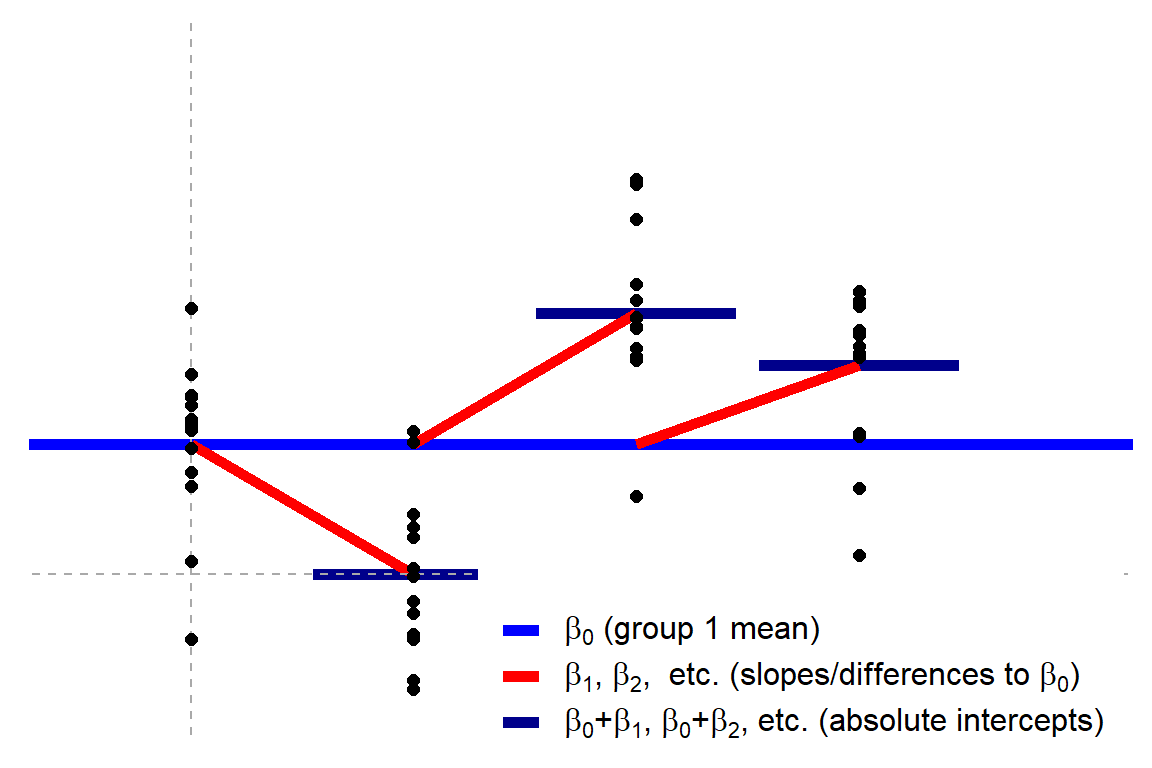
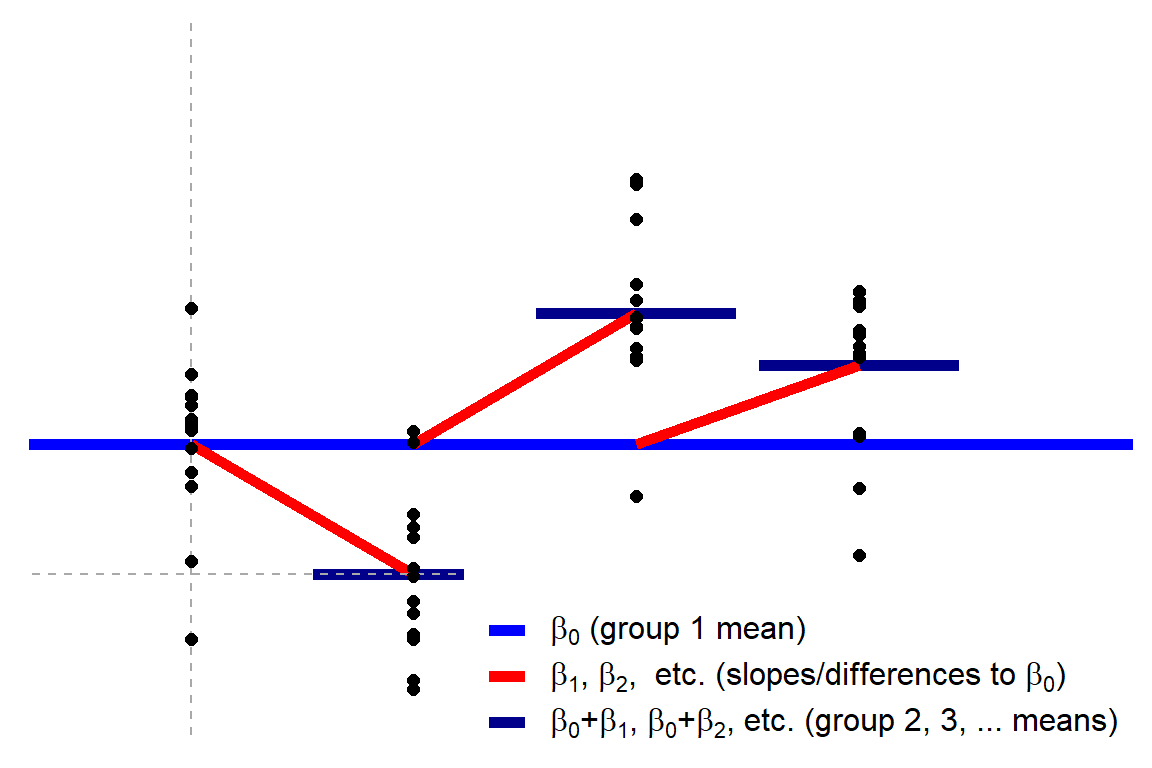
Updates to AN(C)OVAs and Kruskal-Wallis. Thanks to Alan Haynes (#7) and @joehaber2 (Twitter) for inputs!

Changed region(s): [[0.4062, 0.7812, 0.9688, 0.9688]]

diff --git a/index.html b/index.html
@@ -1077,7 +1077,7 @@ P_anova1 = ggplot(D_anova1, aes(x=x, y=y)) +
     labels=c(
       bquote(beta[0]*&quot; (group 1 mean)&quot;), 
       bquote(beta[1]*&quot;, &quot;*beta[2]*&quot;,  etc. (slopes/differences to &quot;*beta[0]*&quot;)&quot;),
-      bquote(beta[0]*&quot;+&quot;*beta[1]*&quot;, &quot;*beta[0]*&quot;+&quot;*beta[2]*&quot;, etc. (absolute intercepts)&quot;)
+      bquote(beta[0]*&quot;+&quot;*beta[1]*&quot;, &quot;*beta[0]*&quot;+&quot;*beta[2]*&quot;, etc. (group 2, 3, ... means)&quot;)
     )
   )
   
@@ -1101,22 +1101,22 @@ D = data.frame(
    
    # Explicitly add indicator/dummy variables
    # Could also be done using model.matrix(~D$group)
-   group_a = rep(c(1, 0, 0), each=N),
+   #group_a = rep(c(1, 0, 0), each=N),  # This is the intercept. No need to code
    group_b = rep(c(0, 1, 0), each=N),
    group_c = rep(c(0, 0, 1), each=N))  # N of each level</code></pre>
 <div id="htmlwidget-70a39cca644e058980b8" style="width:100%;height:auto;" class="datatables html-widget"></div>
-<script type="application/json" data-for="htmlwidget-70a39cca644e058980b8">{"x":{"filter":"none","data":[[1.2054,-0.3238,-2.2574,-0.3088,0.8638,0.9145,1.2604,-0.4439,-0.6537,-0.6647,0.3751,1.0547,-0.4506,-0.2959,-0.0689,0.67,-1.1847,1.4327,0.4198,-1.5439,1.3094,2.488,0.7133,0.361,0.902,2.3742,-0.0172,0.2945,2.2848,-0.1022,0.2534,1.7632,0.7837,1.8609,-0.4687,-0.1086,0.6003,2.4223,2.2305,0.0551,0.8815,0.5242,0.8554,0.3194,0.1591,0.0174,0.0715,2.0275,1.7328,-0.7752,0.6351,0.0606,0.0999,1.2877,0.4873,-0.7995,-1.9402,2.3574,0.7758,1.2222],["a","a","a","a","a","a","a","a","a","a","a","a","a","a","a","a","a","a","a","a","b","b","b","b","b","b","b","b","b","b","b","b","b","b","b","b","b","b","b","b","c","c","c","c","c","c","c","c","c","c","c","c","c","c","c","c","c","c","c","c"],[1,1,1,1,1,1,1,1,1,1,1,1,1,1,1,1,1,1,1,1,0,0,0,0,0,0,0,0,0,0,0,0,0,0,0,0,0,0,0,0,0,0,0,0,0,0,0,0,0,0,0,0,0,0,0,0,0,0,0,0],[0,0,0,0,0,0,0,0,0,0,0,0,0,0,0,0,0,0,0,0,1,1,1,1,1,1,1,1,1,1,1,1,1,1,1,1,1,1,1,1,0,0,0,0,0,0,0,0,0,0,0,0,0,0,0,0,0,0,0,0],[0,0,0,0,0,0,0,0,0,0,0,0,0,0,0,0,0,0,0,0,0,0,0,0,0,0,0,0,0,0,0,0,0,0,0,0,0,0,0,0,1,1,1,1,1,1,1,1,1,1,1,1,1,1,1,1,1,1,1,1]],"container":"<table class=\"display\">\n  <thead>\n    <tr>\n      <th>value<\/th>\n      <th>group<\/th>\n      <th>group_a<\/th>\n      <th>group_b<\/th>\n      <th>group_c<\/th>\n    <\/tr>\n  <\/thead>\n<\/table>","options":{"searching":false,"lengthChange":false,"ordering":false,"autoWidth":true,"bPaginate":true,"bInfo":true,"paging":true,"columnDefs":[{"className":"dt-right","targets":[0,2,3,4]}],"order":[],"orderClasses":false}},"evals":[],"jsHooks":[]}</script>
-<p>See? Exactly one parameter predicts a <code>value</code> in a given row while the others are not included in the modeling of that <code>value</code>.</p>
+<script type="application/json" data-for="htmlwidget-70a39cca644e058980b8">{"x":{"filter":"none","data":[[1.2054,-0.3238,-2.2574,-0.3088,0.8638,0.9145,1.2604,-0.4439,-0.6537,-0.6647,0.3751,1.0547,-0.4506,-0.2959,-0.0689,0.67,-1.1847,1.4327,0.4198,-1.5439,1.3094,2.488,0.7133,0.361,0.902,2.3742,-0.0172,0.2945,2.2848,-0.1022,0.2534,1.7632,0.7837,1.8609,-0.4687,-0.1086,0.6003,2.4223,2.2305,0.0551,0.8815,0.5242,0.8554,0.3194,0.1591,0.0174,0.0715,2.0275,1.7328,-0.7752,0.6351,0.0606,0.0999,1.2877,0.4873,-0.7995,-1.9402,2.3574,0.7758,1.2222],["a","a","a","a","a","a","a","a","a","a","a","a","a","a","a","a","a","a","a","a","b","b","b","b","b","b","b","b","b","b","b","b","b","b","b","b","b","b","b","b","c","c","c","c","c","c","c","c","c","c","c","c","c","c","c","c","c","c","c","c"],[0,0,0,0,0,0,0,0,0,0,0,0,0,0,0,0,0,0,0,0,1,1,1,1,1,1,1,1,1,1,1,1,1,1,1,1,1,1,1,1,0,0,0,0,0,0,0,0,0,0,0,0,0,0,0,0,0,0,0,0],[0,0,0,0,0,0,0,0,0,0,0,0,0,0,0,0,0,0,0,0,0,0,0,0,0,0,0,0,0,0,0,0,0,0,0,0,0,0,0,0,1,1,1,1,1,1,1,1,1,1,1,1,1,1,1,1,1,1,1,1]],"container":"<table class=\"display\">\n  <thead>\n    <tr>\n      <th>value<\/th>\n      <th>group<\/th>\n      <th>group_b<\/th>\n      <th>group_c<\/th>\n    <\/tr>\n  <\/thead>\n<\/table>","options":{"searching":false,"lengthChange":false,"ordering":false,"autoWidth":true,"bPaginate":true,"bInfo":true,"paging":true,"columnDefs":[{"className":"dt-right","targets":[0,2,3]}],"order":[],"orderClasses":false}},"evals":[],"jsHooks":[]}</script>
+<p>With group a’s intercept omni-present, see how exactly one other parameter is added to predict <code>value</code> for group b and c in a given row. Thus data points in group b never affect the estimates in group c.</p>
 </div>
 <div id="r-code-one-way-anova" class="section level3">
 <h3><span class="header-section-number">6.1.3</span> R code: one-way ANOVA</h3>
-<p>OK, let’s see the identity between the built-in <strong>ANOVA</strong> (<code>car::Anova</code>) and the dummy-coded in-your-face linear model in <code>lm</code>. Actually, <code>car::Anova</code> and <code>aov</code> are just wrappers around <code>lm</code> so the identity comes as no surprise. The latter returns parameter estimates as well (bonus!), but we’ll just look at the overall model statistics for now. Note that I do not use the <code>aov</code> function because it computes type-I sum of squares. There is a BIG polarized debate about whether to use type-II (as <code>car::Anova</code> does by default) or type-III sum of squares, but let’s skip that for now.</p>
+<p>OK, let’s see the identity between a dedicated <strong>ANOVA</strong> function (<code>car::Anova</code>) and the dummy-coded in-your-face linear model in <code>lm</code>.</p>
 <pre class="r"><code># Compare built-in and linear model
 a = car::Anova(aov(value ~ group, D))  # Built-in ANOVA
-b = lm(value ~ 1 + group_a + group_b + group_c, data=D)  # As in-your-face linear model</code></pre>
+b = lm(value ~ 1 + group_b + group_c, data=D)  # As in-your-face linear model</code></pre>
 <p>Results:</p>
 <div id="htmlwidget-1ab0d000b26193e8df53" style="width:100%;height:auto;" class="datatables html-widget"></div>
-<script type="application/json" data-for="htmlwidget-1ab0d000b26193e8df53">{"x":{"filter":"none","data":[["Anova","lm"],[5,5],[0.01,0.01],[2,3],[57,57]],"container":"<table class=\"display\">\n  <thead>\n    <tr>\n      <th>model<\/th>\n      <th>F<\/th>\n      <th>p.value<\/th>\n      <th>df<\/th>\n      <th>df.residual<\/th>\n    <\/tr>\n  <\/thead>\n<\/table>","options":{"searching":false,"lengthChange":false,"ordering":false,"autoWidth":true,"bPaginate":false,"bInfo":false,"paging":false,"columnDefs":[{"className":"dt-right","targets":[1,2,3,4]}],"order":[],"orderClasses":false}},"evals":[],"jsHooks":[]}</script>
+<script type="application/json" data-for="htmlwidget-1ab0d000b26193e8df53">{"x":{"filter":"none","data":[["Anova","lm"],[2,3],[57,57],[5,5],[0.00998,0.00998]],"container":"<table class=\"display\">\n  <thead>\n    <tr>\n      <th>model<\/th>\n      <th>df<\/th>\n      <th>df.residual<\/th>\n      <th>F<\/th>\n      <th>p.value<\/th>\n    <\/tr>\n  <\/thead>\n<\/table>","options":{"searching":false,"lengthChange":false,"ordering":false,"autoWidth":true,"bPaginate":false,"bInfo":false,"paging":false,"columnDefs":[{"className":"dt-right","targets":[1,2,3,4]}],"order":[],"orderClasses":false}},"evals":[],"jsHooks":[]}</script>
 <div class="fold o">
 <pre><code>## Anova Table (Type II tests)
 ## 
@@ -1128,18 +1128,17 @@ b = lm(value ~ 1 + group_a + group_b + group_c, data=D)  # As in-your-face linea
 ## Signif. codes:  0 &#39;***&#39; 0.001 &#39;**&#39; 0.01 &#39;*&#39; 0.05 &#39;.&#39; 0.1 &#39; &#39; 1
 ## 
 ## Call:
-## lm(formula = value ~ 1 + group_a + group_b + group_c, data = D)
+## lm(formula = value ~ 1 + group_b + group_c, data = D)
 ## 
 ## Residuals:
 ##     Min      1Q  Median      3Q     Max 
 ## -2.4402 -0.6427 -0.1393  0.8060  1.8574 
 ## 
-## Coefficients: (1 not defined because of singularities)
-##             Estimate Std. Error t value Pr(&gt;|t|)  
-## (Intercept)   0.5000     0.2236   2.236   0.0293 *
-## group_a      -0.5000     0.3162  -1.581   0.1194  
-## group_b       0.5000     0.3162   1.581   0.1194  
-## group_c           NA         NA      NA       NA  
+## Coefficients:
+##              Estimate Std. Error t value Pr(&gt;|t|)   
+## (Intercept) 1.147e-16  2.236e-01   0.000  1.00000   
+## group_b     1.000e+00  3.162e-01   3.162  0.00251 **
+## group_c     5.000e-01  3.162e-01   1.581  0.11938   
 ## ---
 ## Signif. codes:  0 &#39;***&#39; 0.001 &#39;**&#39; 0.01 &#39;*&#39; 0.05 &#39;.&#39; 0.1 &#39; &#39; 1
 ## 
@@ -1147,15 +1146,18 @@ b = lm(value ~ 1 + group_a + group_b + group_c, data=D)  # As in-your-face linea
 ## Multiple R-squared:  0.1493, Adjusted R-squared:  0.1194 
 ## F-statistic:     5 on 2 and 57 DF,  p-value: 0.009984</code></pre>
 </div>
+<p>Only degrees of freedom (df) differ. Actually, <code>car::Anova</code> and <code>aov</code> are just wrappers around <code>lm</code> so the identity comes as no surprise. It only shows that the dummy-coded formula, which had a direct interpretation as a linear model, is the one that underlies the shorthand notation syntax <code>y ~ factor</code>. Indeed, the only real reason to use aov and <code>car::Anova</code> rather than <code>lm</code> is to get a nicely formatted ANOVA table.</p>
+<p>The default output of <code>lm</code> returns parameter estimates as well (bonus!), which you can see if you unfold the R output above. However, because they ARE the ANOVA model, you can also get them out into the open by calling <code>coefficients(aov(...))</code></p>
+<p>Note that I do not use the <code>aov</code> function because it computes type-I sum of squares, which is widely discouraged. There is a BIG polarized debate about whether to use type-II (as <code>car::Anova</code> does by default) or type-III sum of squares (set <code>car::Anova(..., type=3)</code>), but let’s skip that for now.</p>
 </div>
 <div id="r-code-kruskal-wallis" class="section level3">
 <h3><span class="header-section-number">6.1.4</span> R code: Kruskal-Wallis</h3>
 <pre class="r"><code>a = kruskal.test(value ~ group, D)  # Built-in
-b = lm(rank(value) ~ 1 + group_a + group_b + group_c, D)  # As linear model
-c = car::Anova(aov(rank(value) ~ group, D))  # Of course the same using the built-in ANOVA, which is just a wrapper around lm</code></pre>
+b = lm(rank(value) ~ 1 + group_b + group_c, D)  # As linear model
+c = car::Anova(aov(rank(value) ~ group, D))  # The same, using a dedicated ANOVA function. It just wraps lm.</code></pre>
 <p>Results:</p>
 <div id="htmlwidget-17f92ca3804c39b73546" style="width:100%;height:auto;" class="datatables html-widget"></div>
-<script type="application/json" data-for="htmlwidget-17f92ca3804c39b73546">{"x":{"filter":"none","data":[["kruskal.test","lm"],[0.0355,0.0326]],"container":"<table class=\"display\">\n  <thead>\n    <tr>\n      <th>model<\/th>\n      <th>p.value<\/th>\n    <\/tr>\n  <\/thead>\n<\/table>","options":{"searching":false,"lengthChange":false,"ordering":false,"autoWidth":true,"bPaginate":false,"bInfo":false,"paging":false,"columnDefs":[{"className":"dt-right","targets":1}],"order":[],"orderClasses":false}},"evals":[],"jsHooks":[]}</script>
+<script type="application/json" data-for="htmlwidget-17f92ca3804c39b73546">{"x":{"filter":"none","data":[["kruskal.test","lm"],[2,3],[0.0355,0.0326]],"container":"<table class=\"display\">\n  <thead>\n    <tr>\n      <th>model<\/th>\n      <th>df<\/th>\n      <th>p.value<\/th>\n    <\/tr>\n  <\/thead>\n<\/table>","options":{"searching":false,"lengthChange":false,"ordering":false,"autoWidth":true,"bPaginate":false,"bInfo":false,"paging":false,"columnDefs":[{"className":"dt-right","targets":[1,2]}],"order":[],"orderClasses":false}},"evals":[],"jsHooks":[]}</script>
 <div class="fold o">
 <pre><code>## 
 ##  Kruskal-Wallis rank sum test
@@ -1165,18 +1167,17 @@ c = car::Anova(aov(rank(value) ~ group, D))  # Of course the same using the buil
 ## 
 ## 
 ## Call:
-## lm(formula = rank(value) ~ 1 + group_a + group_b + group_c, data = D)
+## lm(formula = rank(value) ~ 1 + group_b + group_c, data = D)
 ## 
 ## Residuals:
 ##     Min      1Q  Median      3Q     Max 
 ## -28.950 -12.213  -0.675  15.912  26.850 
 ## 
-## Coefficients: (1 not defined because of singularities)
+## Coefficients:
 ##             Estimate Std. Error t value Pr(&gt;|t|)    
-## (Intercept)   30.950      3.741   8.272 2.43e-11 ***
-## group_a       -7.800      5.291  -1.474    0.146    
-## group_b        6.450      5.291   1.219    0.228    
-## group_c           NA         NA      NA       NA    
+## (Intercept)   23.150      3.741   6.187 7.08e-08 ***
+## group_b       14.250      5.291   2.693  0.00928 ** 
+## group_c        7.800      5.291   1.474  0.14595    
 ## ---
 ## Signif. codes:  0 &#39;***&#39; 0.001 &#39;**&#39; 0.01 &#39;*&#39; 0.05 &#39;.&#39; 0.1 &#39; &#39; 1
 ## 
@@ -1211,7 +1212,7 @@ D$mood = c(&#39;happy&#39;, &#39;sad&#39;)
 D$mood_happy = ifelse(D$mood == &#39;happy&#39;, 1, 0)  # 1 if mood==happy. 0 otherwise.
 D$mood_sad = ifelse(D$mood == &#39;sad&#39;, 1, 0)  # Same, but we won&#39;t be needing this</code></pre>
 <div id="htmlwidget-f1358fffeb3bd1d82ace" style="width:100%;height:auto;" class="datatables html-widget"></div>
-<script type="application/json" data-for="htmlwidget-f1358fffeb3bd1d82ace">{"x":{"filter":"none","data":[[1.2054,-0.3238,-2.2574,-0.3088,0.8638,0.9145,1.2604,-0.4439,-0.6537,-0.6647,0.3751,1.0547,-0.4506,-0.2959,-0.0689,0.67,-1.1847,1.4327,0.4198,-1.5439,1.3094,2.488,0.7133,0.361,0.902,2.3742,-0.0172,0.2945,2.2848,-0.1022,0.2534,1.7632,0.7837,1.8609,-0.4687,-0.1086,0.6003,2.4223,2.2305,0.0551,0.8815,0.5242,0.8554,0.3194,0.1591,0.0174,0.0715,2.0275,1.7328,-0.7752,0.6351,0.0606,0.0999,1.2877,0.4873,-0.7995,-1.9402,2.3574,0.7758,1.2222],["a","a","a","a","a","a","a","a","a","a","a","a","a","a","a","a","a","a","a","a","b","b","b","b","b","b","b","b","b","b","b","b","b","b","b","b","b","b","b","b","c","c","c","c","c","c","c","c","c","c","c","c","c","c","c","c","c","c","c","c"],[1,1,1,1,1,1,1,1,1,1,1,1,1,1,1,1,1,1,1,1,0,0,0,0,0,0,0,0,0,0,0,0,0,0,0,0,0,0,0,0,0,0,0,0,0,0,0,0,0,0,0,0,0,0,0,0,0,0,0,0],[0,0,0,0,0,0,0,0,0,0,0,0,0,0,0,0,0,0,0,0,1,1,1,1,1,1,1,1,1,1,1,1,1,1,1,1,1,1,1,1,0,0,0,0,0,0,0,0,0,0,0,0,0,0,0,0,0,0,0,0],[0,0,0,0,0,0,0,0,0,0,0,0,0,0,0,0,0,0,0,0,0,0,0,0,0,0,0,0,0,0,0,0,0,0,0,0,0,0,0,0,1,1,1,1,1,1,1,1,1,1,1,1,1,1,1,1,1,1,1,1],["happy","sad","happy","sad","happy","sad","happy","sad","happy","sad","happy","sad","happy","sad","happy","sad","happy","sad","happy","sad","happy","sad","happy","sad","happy","sad","happy","sad","happy","sad","happy","sad","happy","sad","happy","sad","happy","sad","happy","sad","happy","sad","happy","sad","happy","sad","happy","sad","happy","sad","happy","sad","happy","sad","happy","sad","happy","sad","happy","sad"],[1,0,1,0,1,0,1,0,1,0,1,0,1,0,1,0,1,0,1,0,1,0,1,0,1,0,1,0,1,0,1,0,1,0,1,0,1,0,1,0,1,0,1,0,1,0,1,0,1,0,1,0,1,0,1,0,1,0,1,0],[0,1,0,1,0,1,0,1,0,1,0,1,0,1,0,1,0,1,0,1,0,1,0,1,0,1,0,1,0,1,0,1,0,1,0,1,0,1,0,1,0,1,0,1,0,1,0,1,0,1,0,1,0,1,0,1,0,1,0,1]],"container":"<table class=\"display\">\n  <thead>\n    <tr>\n      <th>value<\/th>\n      <th>group<\/th>\n      <th>group_a<\/th>\n      <th>group_b<\/th>\n      <th>group_c<\/th>\n      <th>mood<\/th>\n      <th>mood_happy<\/th>\n      <th>mood_sad<\/th>\n    <\/tr>\n  <\/thead>\n<\/table>","options":{"searching":false,"lengthChange":false,"ordering":false,"autoWidth":true,"bPaginate":true,"bInfo":true,"paging":true,"columnDefs":[{"className":"dt-right","targets":[0,2,3,4,6,7]}],"order":[],"orderClasses":false}},"evals":[],"jsHooks":[]}</script>
+<script type="application/json" data-for="htmlwidget-f1358fffeb3bd1d82ace">{"x":{"filter":"none","data":[[1.2054,-0.3238,-2.2574,-0.3088,0.8638,0.9145,1.2604,-0.4439,-0.6537,-0.6647,0.3751,1.0547,-0.4506,-0.2959,-0.0689,0.67,-1.1847,1.4327,0.4198,-1.5439,1.3094,2.488,0.7133,0.361,0.902,2.3742,-0.0172,0.2945,2.2848,-0.1022,0.2534,1.7632,0.7837,1.8609,-0.4687,-0.1086,0.6003,2.4223,2.2305,0.0551,0.8815,0.5242,0.8554,0.3194,0.1591,0.0174,0.0715,2.0275,1.7328,-0.7752,0.6351,0.0606,0.0999,1.2877,0.4873,-0.7995,-1.9402,2.3574,0.7758,1.2222],["a","a","a","a","a","a","a","a","a","a","a","a","a","a","a","a","a","a","a","a","b","b","b","b","b","b","b","b","b","b","b","b","b","b","b","b","b","b","b","b","c","c","c","c","c","c","c","c","c","c","c","c","c","c","c","c","c","c","c","c"],[0,0,0,0,0,0,0,0,0,0,0,0,0,0,0,0,0,0,0,0,1,1,1,1,1,1,1,1,1,1,1,1,1,1,1,1,1,1,1,1,0,0,0,0,0,0,0,0,0,0,0,0,0,0,0,0,0,0,0,0],[0,0,0,0,0,0,0,0,0,0,0,0,0,0,0,0,0,0,0,0,0,0,0,0,0,0,0,0,0,0,0,0,0,0,0,0,0,0,0,0,1,1,1,1,1,1,1,1,1,1,1,1,1,1,1,1,1,1,1,1],["happy","sad","happy","sad","happy","sad","happy","sad","happy","sad","happy","sad","happy","sad","happy","sad","happy","sad","happy","sad","happy","sad","happy","sad","happy","sad","happy","sad","happy","sad","happy","sad","happy","sad","happy","sad","happy","sad","happy","sad","happy","sad","happy","sad","happy","sad","happy","sad","happy","sad","happy","sad","happy","sad","happy","sad","happy","sad","happy","sad"],[1,0,1,0,1,0,1,0,1,0,1,0,1,0,1,0,1,0,1,0,1,0,1,0,1,0,1,0,1,0,1,0,1,0,1,0,1,0,1,0,1,0,1,0,1,0,1,0,1,0,1,0,1,0,1,0,1,0,1,0],[0,1,0,1,0,1,0,1,0,1,0,1,0,1,0,1,0,1,0,1,0,1,0,1,0,1,0,1,0,1,0,1,0,1,0,1,0,1,0,1,0,1,0,1,0,1,0,1,0,1,0,1,0,1,0,1,0,1,0,1]],"container":"<table class=\"display\">\n  <thead>\n    <tr>\n      <th>value<\/th>\n      <th>group<\/th>\n      <th>group_b<\/th>\n      <th>group_c<\/th>\n      <th>mood<\/th>\n      <th>mood_happy<\/th>\n      <th>mood_sad<\/th>\n    <\/tr>\n  <\/thead>\n<\/table>","options":{"searching":false,"lengthChange":false,"ordering":false,"autoWidth":true,"bPaginate":true,"bInfo":true,"paging":true,"columnDefs":[{"className":"dt-right","targets":[0,2,3,5,6]}],"order":[],"orderClasses":false}},"evals":[],"jsHooks":[]}</script>
 <p><span class="math inline">\(\beta_0\)</span> is now the happy guys from group a!</p>
 <div class="fold s">
 <pre class="r"><code># Add intercept line
@@ -1229,14 +1230,14 @@ theme_axis(P_anova2, xlim=c(-0.5, 3.5)) + theme(axis.text.x = element_text())</c
 </div>
 <div id="r-code-two-way-anova" class="section level3">
 <h3><span class="header-section-number">6.2.2</span> R code: Two-way ANOVA</h3>
-<p>Now let’s turn to the actual modeling in R. We compare the built-in ANOVA function to the linear model using <code>lm</code>. Notice that in ANOVA, we are testing a full factor interaction all at once which involves many parameters (two in this case), so we can’t look at the overall model fit nor any particular parameter for the result. Therefore, I use a likelihood-ratio test to compare a full two-way ANOVA model (“saturated”) to one without the interaction effect(s). We do so using the <code>anova</code> function. Even though that looks like cheating, it’s just computing likelihoods, p-values, etc. on the models that were already fitted, so it’s legit!</p>
+<p>Now let’s turn to the actual modeling in R. We compare a dedicated ANOVA function (<code>car::Anova</code>; see <a href="#anova1">One-Way ANOVA</a> why) to the linear model (<code>lm</code>). Notice that in ANOVA, we are testing a full factor interaction all at once which involves many parameters (two in this case), so we can’t look at the overall model fit nor any particular parameter for the result. Therefore, I use a <a href="https://en.wikipedia.org/wiki/Likelihood-ratio_test">likelihood-ratio test</a> to compare a full two-way ANOVA model (“saturated”) to one without the interaction effect(s). The <code>anova</code> function does this test. Even though that looks like cheating, it’s just computing likelihoods, p-values, etc. on the models that were already fitted, so it’s legit!</p>
 <pre class="r"><code># Built-in two-way ANOVA.
 a = car::Anova(aov(value ~ mood * group, D), type=&#39;II&#39;)  # Normal notation. &quot;*&quot; both multiplies and adds main effects
 b = car::Anova(aov(value ~ mood + group + mood:group, D))  # Identical but more verbose about main effects and interaction
 
 # Testing the interaction terms as linear model.
-full = lm(value ~ 1 + group_a + group_b + mood_happy + group_a:mood_happy + group_b:mood_happy, D)  # Full model
-null = lm(value ~ 1 + group_a + group_b + mood_happy, D)  # Without interaction
+full = lm(value ~ 1 + group_b + group_c + mood_happy + group_b:mood_happy + group_c:mood_happy, D)  # Full model
+null = lm(value ~ 1 + group_b + group_c + mood_happy, D)  # Without interaction
 c = anova(null, full)  # whoop whoop, same F, p, and Dfs</code></pre>
 <p>Results:</p>
 <div id="htmlwidget-87bf6d89bc45e0caea1f" style="width:100%;height:auto;" class="datatables html-widget"></div>
@@ -1254,9 +1255,9 @@ c = anova(null, full)  # whoop whoop, same F, p, and Dfs</code></pre>
 ## Signif. codes:  0 &#39;***&#39; 0.001 &#39;**&#39; 0.01 &#39;*&#39; 0.05 &#39;.&#39; 0.1 &#39; &#39; 1
 ## Analysis of Variance Table
 ## 
-## Model 1: value ~ 1 + group_a + group_b + mood_happy
-## Model 2: value ~ 1 + group_a + group_b + mood_happy + group_a:mood_happy + 
-##     group_b:mood_happy
+## Model 1: value ~ 1 + group_b + group_c + mood_happy
+## Model 2: value ~ 1 + group_b + group_c + mood_happy + group_b:mood_happy + 
+##     group_c:mood_happy
 ##   Res.Df    RSS Df Sum of Sq      F Pr(&gt;F)
 ## 1     56 56.342                           
 ## 2     54 56.247  2  0.095565 0.0459 0.9552</code></pre>
@@ -1264,26 +1265,26 @@ c = anova(null, full)  # whoop whoop, same F, p, and Dfs</code></pre>
 <p>Below, I present approximate main effect models, though exact calculation of ANOVA main effects <a href="https://stats.idre.ucla.edu/stata/faq/how-can-i-get-anova-simple-main-effects-with-dummy-coding/">is more involved</a> if it is to be accurate and furthermore depend on whether type-II or type-III sum of squares are used for inference.</p>
 <p>Look at the model summary statistics to find values comparable to the <code>Anova</code>-estimated main effects above.</p>
 <pre class="r"><code># Main effect of group.
-e = lm(value ~ 1 + group_a + group_b, D)
+e = lm(value ~ 1 + group_b + group_c, D)
 
 # Main effect of mood.
 f = lm(value ~ 1 + mood_happy, D)</code></pre>
 <div id="htmlwidget-ec5b7c1d5b020167d8ef" style="width:100%;height:auto;" class="datatables html-widget"></div>
-<script type="application/json" data-for="htmlwidget-ec5b7c1d5b020167d8ef">{"x":{"filter":"none","data":[["group","group","mood","mood"],["Anova","lm","Anova","lm"],[4.8003,5,0.6314,0.575],[0.0121,0.01,0.4303,0.4514]],"container":"<table class=\"display\">\n  <thead>\n    <tr>\n      <th>term<\/th>\n      <th>model<\/th>\n      <th>F<\/th>\n      <th>p.value<\/th>\n    <\/tr>\n  <\/thead>\n<\/table>","options":{"searching":false,"lengthChange":false,"ordering":false,"autoWidth":true,"bPaginate":false,"bInfo":false,"paging":false,"columnDefs":[{"className":"dt-right","targets":[2,3]}],"order":[],"orderClasses":false}},"evals":[],"jsHooks":[]}</script>
+<script type="application/json" data-for="htmlwidget-ec5b7c1d5b020167d8ef">{"x":{"filter":"none","data":[["group","group","mood","mood"],["Anova","lm","Anova","lm"],[2,3,1,2],[4.80028,5,0.63141,0.57498],[0.01206,0.00998,0.43032,0.45136]],"container":"<table class=\"display\">\n  <thead>\n    <tr>\n      <th>term<\/th>\n      <th>model<\/th>\n      <th>df<\/th>\n      <th>F<\/th>\n      <th>p.value<\/th>\n    <\/tr>\n  <\/thead>\n<\/table>","options":{"searching":false,"lengthChange":false,"ordering":false,"autoWidth":true,"bPaginate":false,"bInfo":false,"paging":false,"columnDefs":[{"className":"dt-right","targets":[2,3,4]}],"order":[],"orderClasses":false}},"evals":[],"jsHooks":[]}</script>
 <div class="fold o">
 <pre><code>## 
 ## Call:
-## lm(formula = value ~ 1 + group_a + group_b, data = D)
+## lm(formula = value ~ 1 + group_b + group_c, data = D)
 ## 
 ## Residuals:
 ##     Min      1Q  Median      3Q     Max 
 ## -2.4402 -0.6427 -0.1393  0.8060  1.8574 
 ## 
 ## Coefficients:
-##             Estimate Std. Error t value Pr(&gt;|t|)  
-## (Intercept)   0.5000     0.2236   2.236   0.0293 *
-## group_a      -0.5000     0.3162  -1.581   0.1194  
-## group_b       0.5000     0.3162   1.581   0.1194  
+##              Estimate Std. Error t value Pr(&gt;|t|)   
+## (Intercept) 1.147e-16  2.236e-01   0.000  1.00000   
+## group_b     1.000e+00  3.162e-01   3.162  0.00251 **
+## group_c     5.000e-01  3.162e-01   1.581  0.11938   
 ## ---
 ## Signif. codes:  0 &#39;***&#39; 0.001 &#39;**&#39; 0.01 &#39;*&#39; 0.05 &#39;.&#39; 0.1 &#39; &#39; 1
 ## 
@@ -1339,10 +1340,10 @@ a = car::Anova(aov(value ~ group + age, D))
 #a = aov(value ~ group + age, D)  # Predictor order matters. Not nice!
 
 # As dummy-coded linear model. 
-full = lm(value ~ 1 + group_a + group_b + age, D)
+full = lm(value ~ 1 + group_b + group_c + age, D)
 
 # Testing main effect of age using Likelihood-ratio test
-null_age = lm(value ~ 1 + group_a + group_b, D)  # Full without age. One-way ANOVA!
+null_age = lm(value ~ 1 + group_b + group_c, D)  # Full without age. One-way ANOVA!
 result_age = anova(null_age, full)
 
 # Testing main effect of groupusing Likelihood-ratio test
@@ -1363,8 +1364,8 @@ result_group = anova(null_group, full)</code></pre>
 ## Signif. codes:  0 &#39;***&#39; 0.001 &#39;**&#39; 0.01 &#39;*&#39; 0.05 &#39;.&#39; 0.1 &#39; &#39; 1
 ## Analysis of Variance Table
 ## 
-## Model 1: value ~ 1 + group_a + group_b
-## Model 2: value ~ 1 + group_a + group_b + age
+## Model 1: value ~ 1 + group_b + group_c
+## Model 2: value ~ 1 + group_b + group_c + age
 ##   Res.Df   RSS Df Sum of Sq      F    Pr(&gt;F)    
 ## 1     57 57.00                                  
 ## 2     56 44.09  1     12.91 16.397 0.0001595 ***
@@ -1373,7 +1374,7 @@ result_group = anova(null_group, full)</code></pre>
 ## Analysis of Variance Table
 ## 
 ## Model 1: value ~ 1 + age
-## Model 2: value ~ 1 + group_a + group_b + age
+## Model 2: value ~ 1 + group_b + group_c + age
 ##   Res.Df    RSS Df Sum of Sq      F   Pr(&gt;F)   
 ## 1     58 54.209                                
 ## 2     56 44.090  2    10.118 6.4258 0.003074 **
